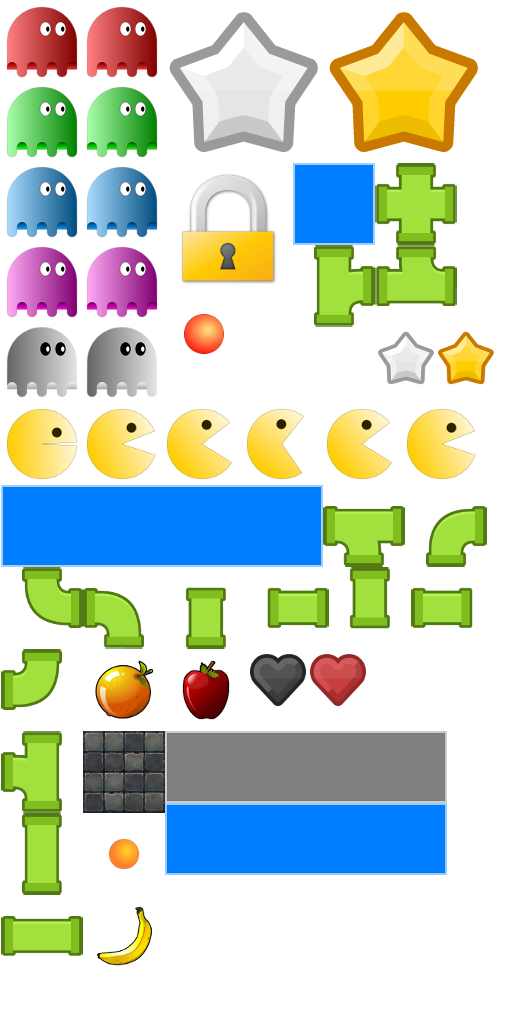
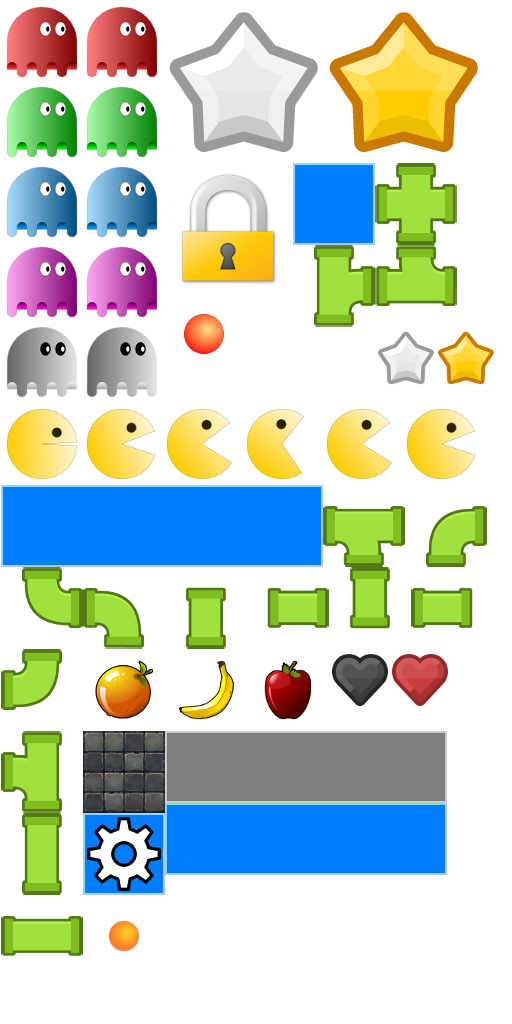
Начало реализации меню настроек

Changed region(s): [[0.3438, 0.625, 0.875, 0.7188], [0.1562, 0.7812, 0.3438, 0.9688]]

diff --git a/core/src/com/mygdx/game/gui/MenuGUI.java b/core/src/com/mygdx/game/gui/MenuGUI.java
@@ -1,8 +1,12 @@
 package com.mygdx.game.gui;
 
 import com.badlogic.gdx.Gdx;
+import com.badlogic.gdx.graphics.Pixmap;
+import com.badlogic.gdx.graphics.Texture;
 import com.badlogic.gdx.scenes.scene2d.Actor;
+import com.badlogic.gdx.scenes.scene2d.Group;
 import com.badlogic.gdx.scenes.scene2d.ui.Button;
+import com.badlogic.gdx.scenes.scene2d.ui.Image;
 import com.badlogic.gdx.scenes.scene2d.ui.TextButton;
 import com.badlogic.gdx.scenes.scene2d.utils.ChangeListener;
 import com.mygdx.game.screens.MenuScreen;
@@ -10,10 +14,22 @@ import com.mygdx.game.screens.ScreenManager;
 
 public class MenuGUI extends SimpleGUI {
 
+    public static final String MUSIC_OFF = "Music Off";
+    public static final String MUSIC_ON = "Music On";
+    public static final String SOUNDS_ON = "Sounds On";
+    public static final String SOUNDS_OFF = "Sounds Off";
     private MenuScreen menuScreen;
     private Button btnNewGame;
     private Button btnExitGame;
     private Button btnMenu;
+    private Button btnSettings;
+
+    private Image image;
+    private Group flowPanel;
+    private Button btnDifficulty;
+    private Button btnMusic;
+    private Button btnSounds;
+    private Button btnSaveSettings;
 
     public MenuGUI(MenuScreen menuScreen) {
         super(menuScreen.getBatch());
@@ -25,31 +41,68 @@ public class MenuGUI extends SimpleGUI {
     protected void setupSkin() {
         super.setupSkin();
 
+        Pixmap pixmap = new Pixmap(400, 420, Pixmap.Format.RGB888);
+        pixmap.setColor(0.0f, 0.0f, 0.3f, 1.0f);
+        pixmap.fill();
+        Texture texturePanel = new Texture(pixmap);
+        skin.add("texturePanel", texturePanel);
+
+        TextButton.TextButtonStyle textButtonGearStyle = new TextButton.TextButtonStyle();
+        textButtonGearStyle.up = skin.getDrawable("gearButton");
+        textButtonGearStyle.font = font32;
+        skin.add(GEAR_BUTTON_SKIN, textButtonGearStyle);
+
         TextButton.TextButtonStyle textButtonMiddleStyle = new TextButton.TextButtonStyle();
         textButtonMiddleStyle.up = skin.getDrawable("middleButton");
         textButtonMiddleStyle.font = font32;
-        skin.add("middleButtonSkin", textButtonMiddleStyle);
+        skin.add(MIDDLE_BUTTON_SKIN, textButtonMiddleStyle);
 
         TextButton.TextButtonStyle textButtonGreyStyle = new TextButton.TextButtonStyle();
         textButtonGreyStyle.up = skin.getDrawable("middleButtonGrey");
         textButtonGreyStyle.font = font32;
-        skin.add("middleButtonGreySkin", textButtonGreyStyle);
+        skin.add(MIDDLE_BUTTON_GREY_SKIN, textButtonGreyStyle);
     }
 
     @Override
     protected void setupStage() {
         super.setupStage();
 
-        btnNewGame = new TextButton("Start New Game", skin, "simpleSkin");
-        btnExitGame = new TextButton("Exit Game", skin, "simpleSkin");
-        btnMenu = new TextButton("Return To Menu", skin, "simpleSkin");
-        btnNewGame.setPosition(VIEWPORT_WIDTH / 2 - 160, 170);
-        btnExitGame.setPosition(VIEWPORT_WIDTH / 2 - 160, 60);
+        btnNewGame = new TextButton("Start New Game", skin, SIMPLE_SKIN);
+        btnExitGame = new TextButton("Exit Game", skin, SIMPLE_SKIN);
+        btnMenu = new TextButton("Return To Menu", skin, SIMPLE_SKIN);
+        btnSettings = new TextButton("", skin, GEAR_BUTTON_SKIN);
+        btnNewGame.setPosition(VIEWPORT_WIDTH / 2 - 160, 240);
+        btnExitGame.setPosition(VIEWPORT_WIDTH / 2 - 160, 120);
         btnMenu.setPosition(VIEWPORT_WIDTH / 2 - 160, SECOND_SCREEN_Y0 + 20);
+        btnSettings.setPosition(VIEWPORT_WIDTH - 100, 20);
 
         stage.addActor(btnNewGame);
         stage.addActor(btnExitGame);
         stage.addActor(btnMenu);
+        stage.addActor(btnSettings);
+
+        flowPanel = new Group();
+        flowPanel.setVisible(false);
+        flowPanel.setPosition(VIEWPORT_WIDTH / 2 - 200, VIEWPORT_HEIGHT / 2 - 300);
+
+        image = new Image(skin, "texturePanel");
+        btnDifficulty = new TextButton(ScreenManager.getInstance().getDifficulty().toString(), skin, MIDDLE_BUTTON_SKIN);
+        btnMusic = new TextButton(ScreenManager.getInstance().isMusicOn()? MUSIC_ON : MUSIC_OFF, skin, MIDDLE_BUTTON_SKIN);
+        btnSounds = new TextButton(ScreenManager.getInstance().isSoundsOn()? SOUNDS_ON : SOUNDS_OFF, skin, MIDDLE_BUTTON_SKIN);
+        btnSaveSettings = new TextButton("Save", skin, MIDDLE_BUTTON_SKIN);
+
+        btnDifficulty.setPosition(30, 300);
+        btnMusic.setPosition(30, 200);
+        btnSounds.setPosition(30, 100);
+        btnSaveSettings.setPosition(30, 30);
+
+        flowPanel.addActor(image);
+        flowPanel.addActor(btnDifficulty);
+        flowPanel.addActor(btnMusic);
+        flowPanel.addActor(btnSounds);
+        flowPanel.addActor(btnSaveSettings);
+
+        stage.addActor(flowPanel);
     }
 
     private void setupLevelButtons() {
@@ -80,6 +133,22 @@ public class MenuGUI extends SimpleGUI {
 
     @Override
     protected void setupListeners() {
+        btnSettings.addListener(new ChangeListener() {
+            @Override
+            public void changed(ChangeEvent event, Actor actor) {
+                flowPanel.setVisible(true);
+                btnSettings.setVisible(false);
+            }
+        });
+
+        btnSaveSettings.addListener(new ChangeListener() {
+            @Override
+            public void changed(ChangeEvent event, Actor actor) {
+                flowPanel.setVisible(false);
+                btnSettings.setVisible(true);
+            }
+        });
+
         btnNewGame.addListener(new ChangeListener() {
             @Override
             public void changed(ChangeEvent event, Actor actor) {

diff --git a/core/src/com/mygdx/game/gui/SimpleGUI.java b/core/src/com/mygdx/game/gui/SimpleGUI.java
@@ -10,6 +10,11 @@ import com.mygdx.game.GameConstants;
 import com.mygdx.game.screens.ScreenManager;
 
 public class SimpleGUI implements GameConstants {
+    protected static final String GEAR_BUTTON_SKIN = "gearButtonSkin";
+    protected static final String SIMPLE_SKIN = "simpleSkin";
+    protected static final String SHORT_BUTTON_SKIN = "shortButtonSkin";
+    protected static final String MIDDLE_BUTTON_GREY_SKIN = "middleButtonGreySkin";
+    protected static final String MIDDLE_BUTTON_SKIN = "middleButtonSkin";
 
     protected BitmapFont font32;
     protected BitmapFont font48;
@@ -40,12 +45,12 @@ public class SimpleGUI implements GameConstants {
         TextButton.TextButtonStyle textButtonStyle = new TextButton.TextButtonStyle();
         textButtonStyle.up = skin.getDrawable("simpleButton");
         textButtonStyle.font = font32;
-        skin.add("simpleSkin", textButtonStyle);
+        skin.add(SIMPLE_SKIN, textButtonStyle);
 
         TextButton.TextButtonStyle shortButtonStyle = new TextButton.TextButtonStyle();
         shortButtonStyle.up = skin.getDrawable("shortButton");
         shortButtonStyle.font = font48;
-        skin.add("shortButtonSkin", shortButtonStyle);
+        skin.add(SHORT_BUTTON_SKIN, shortButtonStyle);
     }
 
     protected void setupStage() {

diff --git a/core/src/com/mygdx/game/gui/LevelCompleteGUI.java b/core/src/com/mygdx/game/gui/LevelCompleteGUI.java
@@ -50,8 +50,8 @@ public class LevelCompleteGUI extends SimpleGUI {
     protected void setupStage() {
         super.setupStage();
 
-        btnNextLevel = new TextButton("Next Level", skin, "simpleSkin");
-        btnMenu = new TextButton("Return To Menu", skin, "simpleSkin");
+        btnNextLevel = new TextButton("Next Level", skin, SIMPLE_SKIN);
+        btnMenu = new TextButton("Return To Menu", skin, SIMPLE_SKIN);
 
         if (ScreenManager.getInstance().getGameLevel().getNext() != null) {
             btnNextLevel.setPosition(VIEWPORT_WIDTH / 2 - 330, SECOND_SCREEN_Y0 + 30);
@@ -66,7 +66,7 @@ public class LevelCompleteGUI extends SimpleGUI {
         flowPanel = new Group();
         image = new Image(skin, "texturePanel");
         field = new TextField("Player", skin, "textFieldStyle");
-        btnSaveResults = new TextButton("OK", skin, "shortButtonSkin");
+        btnSaveResults = new TextButton("OK", skin, SHORT_BUTTON_SKIN);
 
         field.setWidth(560);
         field.setPosition(20, 35);

diff --git a/core/src/com/mygdx/game/screens/ScreenManager.java b/core/src/com/mygdx/game/screens/ScreenManager.java
@@ -22,6 +22,9 @@ public class ScreenManager implements GameConstants {
     private Viewport viewport;
     private Camera camera;
     private GameLevel gameLevel;
+    private Difficulty difficulty;
+    private boolean music;
+    private boolean sounds;
 
     private static ScreenManager ourInstance = new ScreenManager();
 
@@ -45,6 +48,22 @@ public class ScreenManager implements GameConstants {
         this.menuScreen = new MenuScreen(batch, camera);
         this.levelComleteScreen = new LevelComleteScreen(batch, camera);
         this.loadingScreen = new LoadingScreen(batch);
+
+        this.difficulty = Difficulty.NEWBIE;
+        this.music = true;
+        this.sounds = true;
+    }
+
+    public Difficulty getDifficulty() {
+        return difficulty;
+    }
+
+    public boolean isMusicOn() {
+        return music;
+    }
+
+    public boolean isSoundsOn() {
+        return sounds;
     }
 
     public GameLevel getGameLevel() {

diff --git a/core/src/com/mygdx/game/gui/GameScreenGUI.java b/core/src/com/mygdx/game/gui/GameScreenGUI.java
@@ -52,10 +52,10 @@ public class GameScreenGUI extends SimpleGUI {
 
         flowPanel = new Group();
         Label.LabelStyle ls = new Label.LabelStyle(font48, Color.WHITE);
-        btnPause = new TextButton("II", skin, "shortButtonSkin");
-        btnMenu = new TextButton("Return to Menu", skin, "simpleSkin");
-        btnContinue = new TextButton("Continue Game", skin, "simpleSkin");
-        btnRestart = new TextButton("Restart Level", skin, "simpleSkin");
+        btnPause = new TextButton("II", skin, SHORT_BUTTON_SKIN);
+        btnMenu = new TextButton("Return to Menu", skin, SIMPLE_SKIN);
+        btnContinue = new TextButton("Continue Game", skin, SIMPLE_SKIN);
+        btnRestart = new TextButton("Restart Level", skin, SIMPLE_SKIN);
         pauseLabel = new Label("Paused", ls);
         gameOverLabel = new Label("Game Over", ls);
         image = new Image(skin, "texturePanel");
